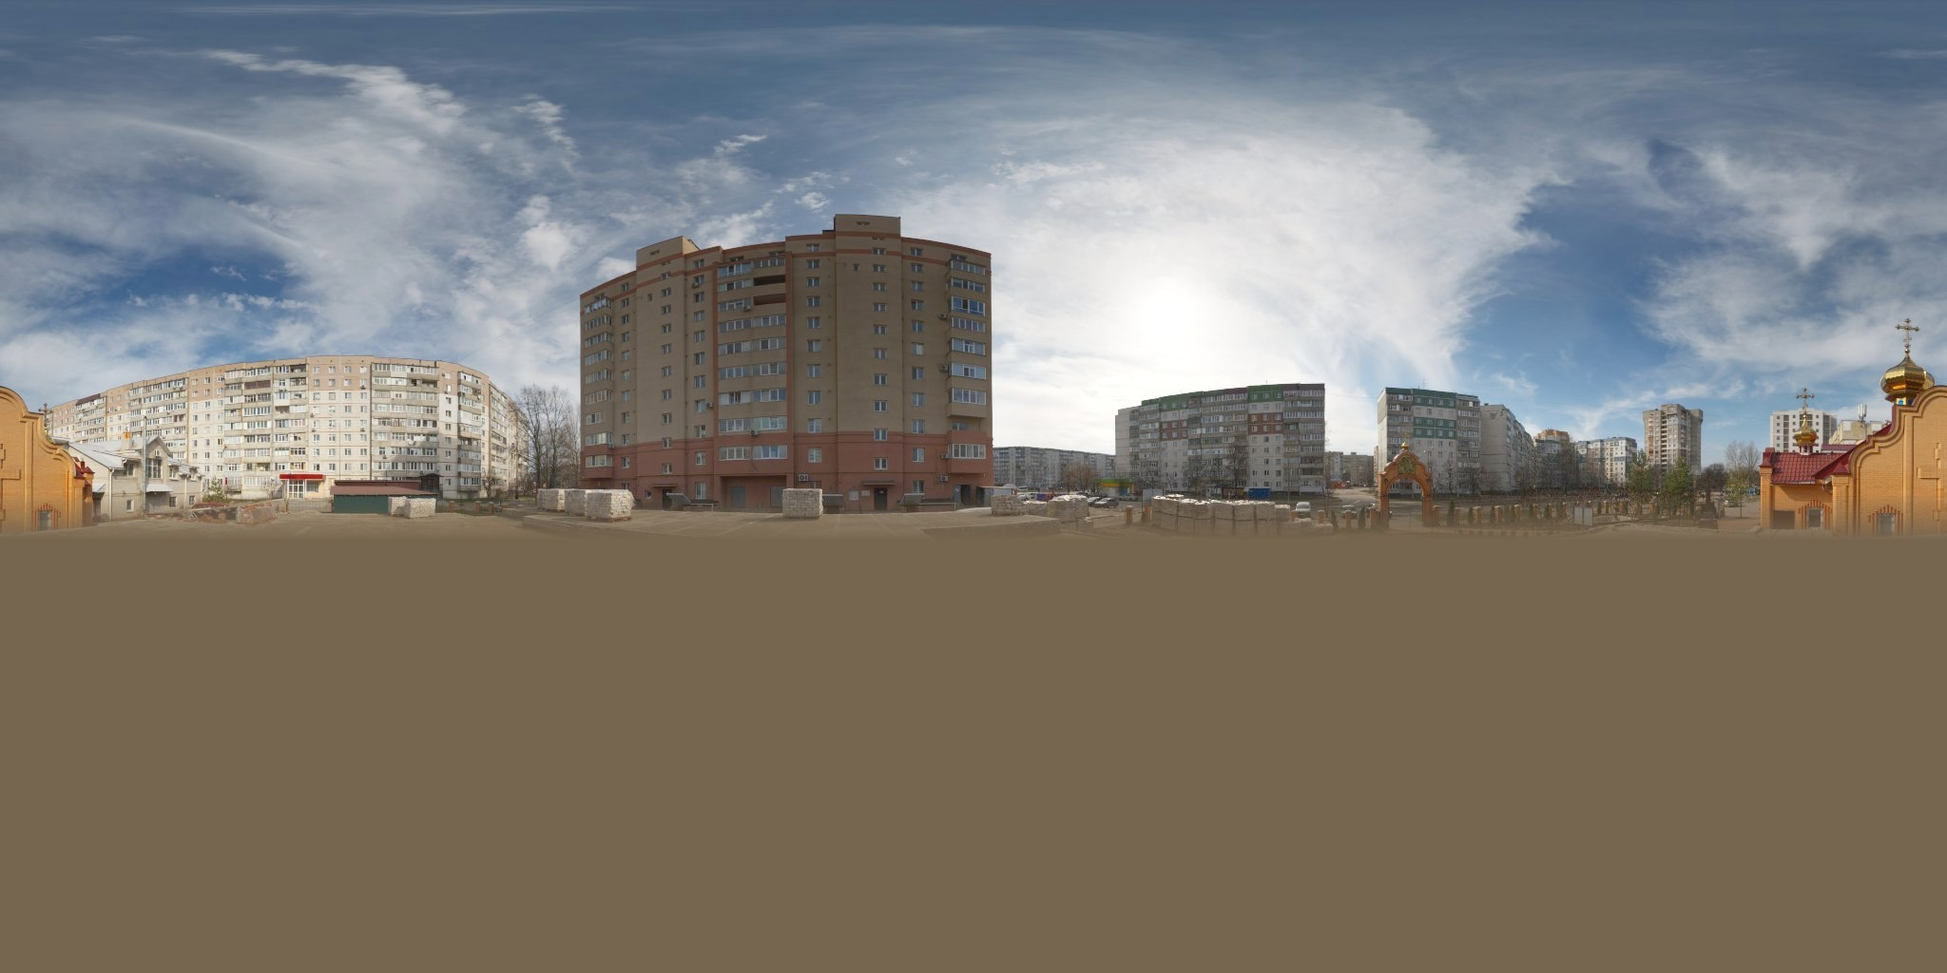
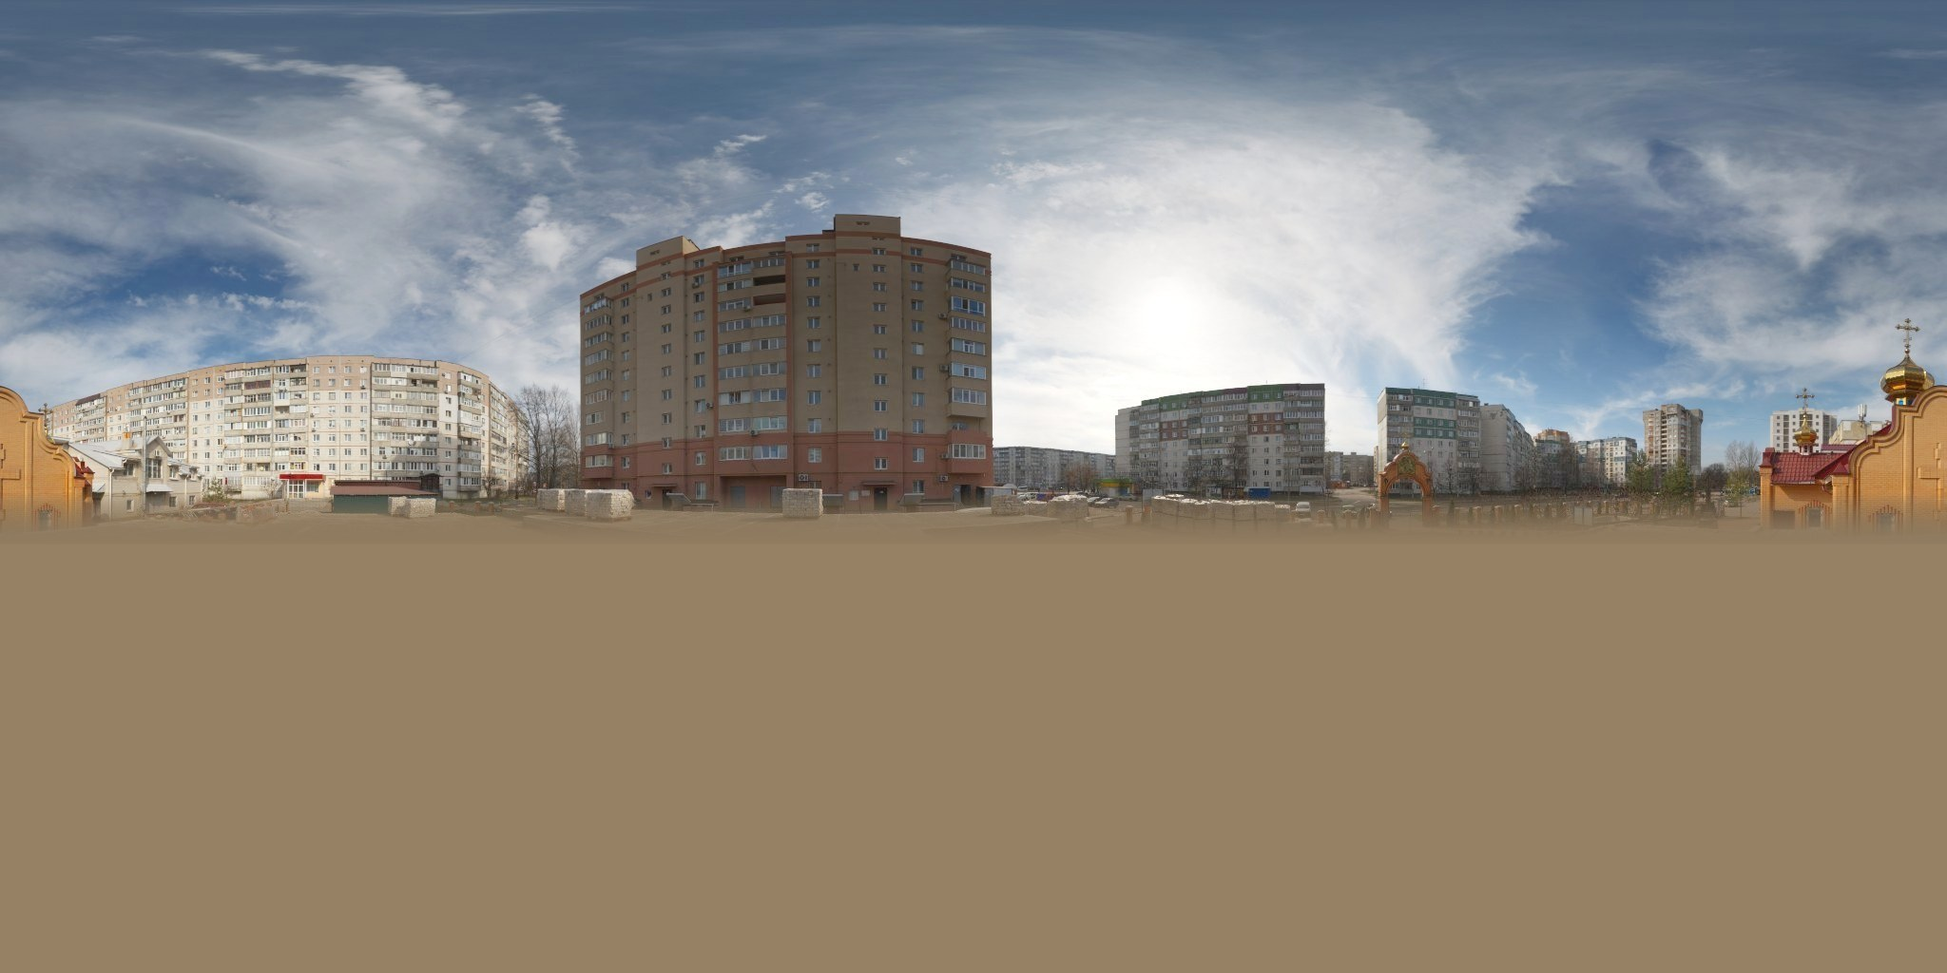
改善ループ1回目: 腕の慣性・当てた時の粉塵と揺れ・はまった時の手応え・始めのヒント・目標をすぐ出す・ステージ一覧に一言・暗い場面を明るく・地面の端の暗い帯を薄く・クレーン運転席の視野 (v88)

diff --git a/game.js b/game.js
@@ -62,7 +62,7 @@ const G = window.G = {};   // 確かめ用の口
   const env = new B.HDRCubeTexture("assets/hdri/construction_yard_2k.hdr", scene, LITE ? 64 : 256, false, true, false, !LITE);   // 軽い版は読み込み時の下ごしらえ（float の描画先を何枚も作る）を省く
   env.rotationY = ENV_ROT;
   scene.environmentTexture = env; scene.environmentIntensity = 1.0;
-  const dome = new B.PhotoDome("bg", AS + "hdri/construction_yard_bg3.jpg", { resolution: 64, size: 1600 }, scene);
+  const dome = new B.PhotoDome("bg", AS + "hdri/construction_yard_bg3.jpg?v=2", { resolution: 64, size: 1600 }, scene);
   dome.mesh.rotation.y = ENV_ROT + Number(Q.get("domerot") || 0); dome.material.fogEnabled = false; dome._bg = "construction_yard"; dome._rot0 = dome.mesh.rotation.y;
   // 太陽: 写真の中の太陽の位置（高さ 34°）に合わせる。方位は写真の向きに合わせて DOME と同じだけ回す
   const SUN_EL = 33.8 * Math.PI / 180, SUN_AZ = Number(Q.get("sunaz") || 3.4);   // 写真の太陽の方位（カメラを向けて合わせた。回す前は 5.75）
@@ -134,7 +134,7 @@ const G = window.G = {};   // 確かめ用の口
     const pos = [], uv = [], col = [], idx = [], N = 96;
     for (let i = 0; i <= N; i++) {
       const a = i / N * Math.PI * 2, c = Math.cos(a), sn = Math.sin(a);
-      for (const [r, al] of [[GR - 0.01, 1], [GR + 25, 0.85], [GR2, 0]]) {
+      for (const [r, al] of [[GR - 0.01, 1], [GR + 15, 0.6], [125, 0]]) {   // 外ほど暗く見えて帯になっていたので早めに消す（10-24 改善ループ 軸4）
         pos.push(c * r, 0.002, sn * r); uv.push((c * r) / (GR * 2) + 0.5, (sn * r) / (GR * 2) + 0.5); col.push(1, 1, 1, al);
       }
     }
@@ -1105,9 +1105,9 @@ const G = window.G = {};   // 確かめ用の口
   }
   function broke(n, p, big) {      // 格子が n 個こわれた（p はその辺り）
     combo += n; comboT = 0.5; comboP = p; score += n;
-    if (big || playT - lastDustT > 0.15) { lastDustT = playT; dust(p, (big ? 30 : 6) + n * (big ? 8 : 3)); }   // 押し当てている間に毎コマ出すと画面が粉塵で埋まった
+    if (big || playT - lastDustT > 0.15) { lastDustT = playT; dust(p, (big ? 34 : 10) + n * (big ? 8 : 4)); }   // 押し当てている間に毎コマ出すと画面が粉塵で埋まった
     crash(Math.min(1, (big ? 0.35 : 0.05) + n * (big ? 0.06 : 0.03)));
-    shake(Math.min(0.6, (big ? 0.25 : 0.04) + n * (big ? 0.03 : 0.012)));
+    shake(Math.min(0.6, (big ? 0.28 : 0.08) + n * (big ? 0.03 : 0.012)));
   }
   function updateCombo(dt) {
     if (comboT <= 0) return;
@@ -1349,6 +1349,7 @@ const G = window.G = {};   // 確かめ用の口
         const now = (kind === "b") === (mode === "build") && i === (kind === "b" ? bstage : stage) && canClose;
         const b = document.createElement("button"); b.className = "btn stBtn" + (now ? " now" : "");
         b.textContent = `${i + 1}. ${st.name}　${st.free ? "♾" : stars(got[i] || 0)}`;
+        const sub = document.createElement("small"); sub.textContent = kind === "d" ? (st.free ? "じゆうに こわす" : `ダンプ ${st.trucks}だい`) : (st.sites ? "3か所に たてる" : st.unit ? "わくを つむ・かぜ つよい" : `${st.floors}かいだて`); b.appendChild(sub);
         b.onclick = () => { wakeAudio(); goStage(kind, i); };
         col.appendChild(b);
       });
@@ -1357,7 +1358,8 @@ const G = window.G = {};   // 確かめ用の口
     el.style.display = ""; $("goal").style.display = "none";
   }
   $("bStage").onclick = () => { wakeAudio(); if ($("stages").style.display === "none") showStages("ステージを えらぼう", true); else $("stages").style.display = "none"; };
-  function startStage(i) { $("goal").style.display = ""; stage = i; FLOORS = STAGES[i].floors; reset(); applyLook(STAGES[i].look ?? i); chime([0, 7]); popup("ステージ " + (i + 1) + " スタート！", "mile"); }
+  function startHint() { const h = $("hint"); h.textContent = "左レバーで うでを のばして、バケットを ビルに ぶつけよう"; h.style.display = ""; clearTimeout(startHint.t); startHint.t = setTimeout(() => { if (mode !== "build") h.style.display = "none"; }, 7000); }
+  function startStage(i) { $("goal").style.display = ""; stage = i; FLOORS = STAGES[i].floors; reset(); applyLook(STAGES[i].look ?? i); chime([0, 7]); popup("ステージ " + (i + 1) + " スタート！", "mile"); startHint(); }
   // さら地の結果
   function showResult() {
     const st = STAGES[stage], n = playT <= st.star3 ? 3 : playT <= st.star2 ? 2 : 1;
@@ -1408,6 +1410,7 @@ const G = window.G = {};   // 確かめ用の口
     return n;
   }
 
+  const lv = { sw: 0, st: 0, bo: 0, bu: 0 };   // 腕のレバーのなめらかにした値
   function reset() {
     clearDebris(); buildBuilding();
     for (const m of truck.load) m.dispose(); truck.load.length = 0; truck.amount = 0; truck.trips = 0; truck.sent = 0; finishAt = -1; truck.state = "wait"; truck.z = TRUCK_HOME.z;
@@ -1854,7 +1857,7 @@ const G = window.G = {};   // 確かめ用の口
         B.Vector3.LerpToRef(s2.from, s2.to, e, s2.m.position); B.Quaternion.SlerpToRef(s2.q, s2.h.p.q || B.Quaternion.Identity(), e, s2.m.rotationQuaternion);   // 屋根は傾けて はめる
         if (far) drawSlings(null); else drawSlings(s2.h, hb);
         cr.tgt.x += (s2.to.x - cr.tgt.x) * Math.min(1, dt * 6); cr.tgt.z += (s2.to.z - cr.tgt.z) * Math.min(1, dt * 6);   // はまる間はフックも枠の真上へ（荷だけ横へ動くとワイヤーが横に伸びた 評価 k5）
-        if (s2.t >= 1) { s2.slack = 0; clang(s2.good ? 1 : 0.7); shake(s2.m === bd.placed[0] ? 0.1 : 0.15); dust(s2.to, s2.good ? 14 : 8); }
+        if (s2.t >= 1) { s2.slack = 0; clang(s2.good ? 1 : 0.7); shake(s2.m === bd.placed[0] ? 0.16 : 0.22); dust(s2.to, s2.good ? 26 : 14); }
       } else {
         s2.slack += dt; s2.drop = Math.min(0.4, s2.slack * 1.2); s2.hx = s2.hx || hb.clone();
         if (Math.hypot(hb.x - s2.hx.x, hb.z - s2.hx.z) > 0.5 || Math.hypot(hb.x - s2.to.x, hb.z - s2.to.z) > 0.8) s2.slack = 0.55;   // フックが横へ動き出したら、すぐ外す（ワイヤーが横へ引き伸ばされて見えた 評価 k4）
@@ -1961,7 +1964,7 @@ const G = window.G = {};   // 確かめ用の口
     cr.pos.set(0, 0, 3); cr.heading = 0; cr.sway.set(0, 0); cr.swayV.set(0, 0); tipInit = false;
     cr.tgt.set(YARD.x, 6, YARD.z);                           // 最初は置き場の真上。あとは「下げる」だけで吊れる
     const s = solveCrane(cr.tgt, 0); cr.swing = s.swing; cr.luff = s.luff; cr.ext = s.ext; cr.wire = s.wire;
-    fp.parent = crSeat; fp.fov = 1.25; look.yaw = 0; look.pitch = -0.1; lookIdle = 9; tp.radius = BS.floors > 4 ? 44 : BS.sites ? 38 : 30; tp.beta = 1.05; tp.alpha = -Math.PI / 2 - 0.35;
+    fp.parent = crSeat; fp.fov = 1.32; look.yaw = 0; look.pitch = -0.1; lookIdle = 9; tp.radius = BS.floors > 4 ? 44 : BS.sites ? 38 : 30; tp.beta = 1.05; tp.alpha = -Math.PI / 2 - 0.35;
     if (view === "fp") $("bView").onclick();   // 建築は外からが最初（運転席からだとブームと柱でフックが隠れた 10-12 評価 b0）
     $("done").style.display = "none"; $("pedals").style.display = "none"; $("hint").style.display = "";   // クレーンは止めたまま届くのでペダルは隠す
     craneLabels();
@@ -2067,7 +2070,7 @@ const G = window.G = {};   // 確かめ用の口
     ride = v; wkRoot.setEnabled(false); for (const st of Object.values(sticks)) releaseStick(st);
     if (v === "cr") {
       if (mode !== "build") { enterBuild(); return; }   // さら地の後に初めて乗ったら建築が始まる
-      fp.parent = crSeat; fp.fov = 1.25; tp.radius = 30; tp.beta = 1.05; tp.alpha = -Math.PI / 2 - 0.35; craneLabels();
+      fp.parent = crSeat; fp.fov = 1.32; tp.radius = 30; tp.beta = 1.05; tp.alpha = -Math.PI / 2 - 0.35; craneLabels();
     } else {
       fp.parent = seat; fp.fov = 1.15; tp.radius = 18; tp.beta = 1.1; tp.alpha = -ex.heading - Math.PI / 2;
       $("pedals").style.display = ""; setLabels();
@@ -2106,7 +2109,10 @@ const G = window.G = {};   // 確かめ用の口
     if (craneHere) updateBuild(dt);   // さら地の後: 来たクレーン車は止まったまま（乗るまでレバーは効かない）
     if (exSlide) { exSlide.t = Math.min(1, exSlide.t + dt / 1.5); B.Vector3.LerpToRef(exSlide.from, exSlide.to, 1 - Math.pow(1 - exSlide.t, 3), ex.pos); if (exSlide.t >= 1) exSlide = null; }
     const onEx = ride === "ex", K = onEx ? kv : () => 0, L = onEx ? sticks.L : NO_STICK, R = onEx ? sticks.R : NO_STICK;   // 乗っていない時はレバーが効かない
-    const sw = L.x + K("KeyD", "KeyA"), st = -L.y + K("KeyS", "KeyW"), bo = -R.y + K("KeyK", "KeyI"), bu = -R.x + K("KeyJ", "KeyL");
+    const sw0 = L.x + K("KeyD", "KeyA"), st0 = -L.y + K("KeyS", "KeyW"), bo0 = -R.y + K("KeyK", "KeyI"), bu0 = -R.x + K("KeyJ", "KeyL");
+    // 腕の油圧らしさ: レバーの値へじわっと寄せる（動き出し dt*6・止める時は dt*10 で速め）（10-24 改善ループ 軸6）
+    const ease = (k, v) => { const c = lv[k], a = Math.abs(v) < Math.abs(c) ? 10 : 6; return (lv[k] = c + (v - c) * Math.min(1, dt * a)); };
+    const sw = ease("sw", sw0), st = ease("st", st0), bo = ease("bo", bo0), bu = ease("bu", bu0);
     const prev = [ex.boom, ex.stick, ex.bucket], low0 = bucketLowest();
     const pw = POW();
     ex.swing += sw * 0.85 * pw * dt;
@@ -2230,7 +2236,7 @@ const G = window.G = {};   // 確かめ用の口
   const pipe = new B.DefaultRenderingPipeline("pipe", !Q.has("nohdr") && !LITE, scene, Q.has("nopp") ? [] : [fp, tp]);
   pipe.imageProcessingEnabled = true;
   pipe.imageProcessing.toneMappingEnabled = true; pipe.imageProcessing.toneMappingType = B.ImageProcessingConfiguration.TONEMAPPING_ACES;
-  pipe.imageProcessing.exposure = 1.0; pipe.imageProcessing.contrast = 1.28;
+  pipe.imageProcessing.exposure = 1.0; pipe.imageProcessing.contrast = 1.2;   // 1.28 では街の影が黒く潰れた（10-24 改善ループ 軸4）
   pipe.imageProcessing.colorCurvesEnabled = true; pipe.imageProcessing.colorCurves = new B.ColorCurves(); pipe.imageProcessing.colorCurves.globalSaturation = -14;
   scene.environmentIntensity = 0.85;
   pipe.imageProcessing.vignetteEnabled = true; pipe.imageProcessing.vignetteWeight = 1.2;
@@ -2243,15 +2249,15 @@ const G = window.G = {};   // 確かめ用の口
   //   exp: 明るさ／fog: 遠くの霞の色／fogEnd: 霞で見えなくなる距離／ground: 地面に掛ける色／shade: 影の薄さ（0=真っ黒）
   const LOOKS = [
     { name: "はれ", bg: "construction_yard", el: 33.8, sun: [1, 0.96, 0.9], si: 2.1, hue: 0, dens: 0, sat: -14, exp: 1.0, fog: [0.6, 0.58, 0.55], fogEnd: 380, ground: [1, 1, 1], shade: 0.12 },
-    { name: "ゆうがた", bg: "sunset_jhbcentral", bgRot: Math.PI, el: 16, sun: [1, 0.62, 0.36], si: 1.9, hue: 28, dens: 45, sat: -2, exp: 0.95, fog: [0.78, 0.55, 0.38], fogEnd: 320, ground: [1.1, 0.95, 0.8], shade: 0.2 },
-    { name: "くもり", bg: "potsdamer_platz", bgRot: 0, el: 55, sun: [0.86, 0.9, 1], si: 0.8, hue: 215, dens: 24, sat: -42, exp: 0.93, fog: [0.56, 0.59, 0.63], fogEnd: 200, ground: [0.84, 0.88, 0.94], shade: 0.55 },
+    { name: "ゆうがた", bg: "sunset_jhbcentral", bgRot: Math.PI, el: 16, sun: [1, 0.62, 0.36], si: 1.9, hue: 28, dens: 45, sat: -2, exp: 1.0, fog: [0.78, 0.55, 0.38], fogEnd: 320, ground: [1.1, 0.95, 0.8], shade: 0.2 },
+    { name: "くもり", bg: "potsdamer_platz", bgRot: 0, el: 55, sun: [0.86, 0.9, 1], si: 0.8, hue: 215, dens: 24, sat: -42, exp: 1.0, fog: [0.56, 0.59, 0.63], fogEnd: 200, ground: [0.84, 0.88, 0.94], shade: 0.55 },
     { name: "あさ", bg: "stuttgart_suburbs", bgRot: 0, el: 24, sun: [1, 0.95, 0.8], si: 2.3, hue: 55, dens: 14, sat: 2, exp: 1.08, fog: [0.72, 0.74, 0.68], fogEnd: 380, ground: [0.78, 1.0, 0.66], shade: 0.15 }];
   const GROUND_MATS = ["groundM", "groundRingM", "gDirtM", "gMudM", "moundM"];
   function applyLook(i) {
     const L = LOOKS[i] || LOOKS[0], el = L.el * Math.PI / 180;
     // 周りぐるっとの背景写真（Poly Haven・CC0。地平線より下は地面の色で塗ってある。tools は scratchpad の make_bg.py と同じ手順 → context に記録）
     if (dome._bg !== L.bg) {   // 上下の向きは PhotoDome が最初に作る時と同じ（invertY = !_useDirectMapping。逆にすると空と地面が逆さになった）
-      dome._bg = L.bg; const old = dome.photoTexture; dome.photoTexture = new B.Texture(AS + "hdri/" + L.bg + "_bg3.jpg", scene, true, !dome._useDirectMapping); if (old && old !== dome.photoTexture) old.dispose(); }
+      dome._bg = L.bg; const old = dome.photoTexture; dome.photoTexture = new B.Texture(AS + "hdri/" + L.bg + "_bg3.jpg?v=2", scene, true, !dome._useDirectMapping); if (old && old !== dome.photoTexture) old.dispose(); }
     dome.mesh.rotation.y = dome._rot0 + (L.bgRot || 0);   // 開けた方（夕焼け空・ビル街・遠くの町）が正面に来る向き（6 通り回して撮って選んだ）
     sun.direction.set(-Math.sin(SUN_AZ) * Math.cos(el), -Math.sin(el), -Math.cos(SUN_AZ) * Math.cos(el));
     sun.position = sunC.subtract(sun.direction.scale(SUN_D));
@@ -2377,9 +2383,10 @@ const G = window.G = {};   // 確かめ用の口
     } catch (e) { console.warn("小物の読み込み失敗", e); }
   })();
 
-  reset();
+  reset(); updateGoal(0, 0);   // 始めから目標を出す（「読み込み中」が数秒残った）
   if (Q.has("build")) enterBuild();   // ?build=N でクレーンの N 面
   else if (!Q.has("stage") && !Q.has("nostage")) showStages("ステージを えらぼう", false);
+  else startHint();
   $("msg").style.display = "none";
   engine.resize();   // WebGPU は作った時点で canvas の大きさを拾わないことがある（300×150 のままになった）
   engine.runRenderLoop(() => scene.render());

diff --git a/index.html b/index.html
@@ -42,9 +42,9 @@ html,body{margin:0;height:100%;background:#1b2838;overflow:hidden;touch-action:n
 #done .btn{pointer-events:auto;margin:10px 5px 0;font-size:16px;padding:9px 14px}
 #done .rT{font-size:24px} #rStars{font-size:34px;color:#d9480f;letter-spacing:6px;text-shadow:0 2px 0 #fff8} #rInfo{font-size:14px;white-space:pre-line;margin-top:4px}
 #goal{position:absolute;left:calc(10px + env(safe-area-inset-left));top:calc(8px + env(safe-area-inset-top));width:min(28vw,220px);color:#fff;background:#0007;border-radius:8px;padding:4px 7px;pointer-events:none;font-weight:bold}
-#gStage{font-size:9px;opacity:.8} #gText{font-size:11px;line-height:1.25;margin:1px 0 3px} #gScore{position:absolute;right:7px;top:3px;font-size:10px;color:#ffd23f}
+#gStage{font-size:10px;opacity:.8} #gText{font-size:12px;line-height:1.25;margin:1px 0 3px} #gScore{position:absolute;right:7px;top:3px;font-size:10px;color:#ffd23f}
 .gbar{position:relative;height:11px;background:#fff3;border-radius:6px;overflow:hidden;margin-top:2px} .gbar i{position:absolute;left:0;top:0;bottom:0;background:linear-gradient(#ffcf3f,#f08c00);transition:width .3s}
-.gbar.tr i{background:linear-gradient(#8fe08f,#2f9e44)} .gbar span{position:relative;font-size:9px;padding-left:5px;line-height:11px;text-shadow:0 1px 2px #000}
+.gbar.tr i{background:linear-gradient(#8fe08f,#2f9e44)} .gbar span{position:relative;font-size:10px;padding-left:5px;line-height:11px;text-shadow:0 1px 2px #000}
 #pops{position:absolute;left:50%;top:30%;width:0;height:0;pointer-events:none}
 .pop{position:absolute;left:0;top:0;transform:translate(-50%,0);white-space:nowrap;color:#fff;font-weight:900;font-size:21px;text-shadow:0 3px 0 #000a,0 0 8px #000;animation:popup 1.3s ease-out forwards}
 .pop.mid{font-size:27px;color:#ffd23f} .pop.big{font-size:34px;color:#ff922b} .pop.mile{font-size:25px;color:#8ce99a;top:45px} .pop.load{font-size:20px;color:#8ce99a;top:82px}
@@ -55,7 +55,7 @@ html,body{margin:0;height:100%;background:#1b2838;overflow:hidden;touch-action:n
 .stCol.d .stBtn{background:#fff3df} .stCol.b .stBtn{background:#e6f4ff}
 .stHead{font-size:15px;font-weight:900;color:#fff;text-align:center;text-shadow:0 1px 2px #0008;padding:2px}
 .stBtn.now{outline:3px solid #223} .stClose{font-size:13px;align-self:center}
-.stTitle{font-size:17px;font-weight:900;color:#fff;text-align:center} .stBtn{font-size:13px;text-align:left;padding:6px 10px;box-shadow:0 2px 0 #0004} .stBtn.locked{opacity:.55}
+.stTitle{font-size:17px;font-weight:900;color:#fff;text-align:center} .stBtn{font-size:13px;text-align:left;padding:6px 10px;box-shadow:0 2px 0 #0004} .stBtn small{display:block;font-size:10px;font-weight:bold;opacity:.65;margin-top:1px} .stBtn.locked{opacity:.55}
 .stUp{font-size:17px;color:#223;white-space:pre-line;font-weight:bold}
 #toast{position:absolute;left:50%;top:22%;transform:translate(-50%,-50%);color:#fff;font-size:19px;font-weight:bold;background:#0009;padding:7px 16px;border-radius:14px;pointer-events:none;white-space:nowrap}
 #hint{position:absolute;left:50%;transform:translateX(-50%);bottom:calc(24px + env(safe-area-inset-bottom));max-width:40vw;text-align:center;color:#fff;font-size:15px;font-weight:bold;background:#0009;padding:7px 12px;border-radius:14px;pointer-events:none}
@@ -113,7 +113,7 @@ html,body{margin:0;height:100%;background:#1b2838;overflow:hidden;touch-action:n
     await Promise.all([worker(), worker(), worker(), worker()]);
   } catch (e) { console.warn("先読みできませんでした", e); }
   msg.textContent = "準備中…";
-  for (const src of ["vendor/babylon.js", "vendor/HavokPhysics_umd.js", "vendor/babylonjs.loaders.min.js", "game.js?v=85"]) {
+  for (const src of ["vendor/babylon.js", "vendor/HavokPhysics_umd.js", "vendor/babylonjs.loaders.min.js", "game.js?v=88"]) {
     await new Promise((ok, ng) => { const sc = document.createElement("script"); sc.src = src; sc.onload = ok; sc.onerror = ng; document.body.appendChild(sc); });
   }
 })();

diff --git a/tools/eval_capture.js b/tools/eval_capture.js
@@ -1,0 +1,48 @@
+// 改善ループ用の撮影と計測（評価役に渡す材料）。ページで読み込むと CAP.run(場面, 回) が使える
+// 使い方: ?stage=1 などで開く → script を読み込む → await CAP.run("s1", "r0")。結果は CAP.out、絵は 127.0.0.1:8821 の受け口へ
+(() => {
+  const B = BABYLON, G = window.G, V = (x, y, z) => new B.Vector3(x, y, z);
+  const CAP = window.CAP = { out: {} };
+  const loadBot = () => new Promise(r => { if (window.BOT) return r(); const s = document.createElement("script"); s.src = "tools/bot.js?" + Date.now(); s.onload = r; document.head.appendChild(s); });
+  const cam = (t, r, beta, alpha) => { G.camAt = () => t; G.tp.radius = r; G.tp.beta = beta; G.tp.alpha = alpha; };
+  const toTp = () => { if (document.getElementById("bView").textContent !== "運転席") document.getElementById("bView").click(); };
+  const toFp = () => { if (document.getElementById("bView").textContent === "運転席") document.getElementById("bView").click(); };
+  CAP.run = async (sc, round) => {
+    G.testMode(); await loadBot(); BOT.scale = 1; G.engine.setHardwareScalingLevel(1);
+    const snap = n => BOT.snap(`${round}_${sc}_${n}.jpg`), o = CAP.out[sc] = { t0: BOT.t };
+    const t = performance.now(); await BOT.step(10); o.msPerFrame = +((performance.now() - t) / 10).toFixed(1);
+    if (sc === "s1") {          // 1 面: 運転席から → 2 分半こわして運ぶ → 外から
+      toFp(); await BOT.step(5); await snap("a_cab_start");
+      await BOT.playStage(150);
+      o.log = BOT.log.map(l => `${l.t} ${l.what} 残${l.cells} 破片${l.debris} 積${l.load}`); o.pops = BOT.pops.map(p => `${p.t} ${p.text}`); o.stats = G.stats;
+      toFp(); await BOT.step(5); await snap("b_cab_mid");
+      toTp(); G.camAt = null; await BOT.step(5); await snap("c_tp_mid");
+      cam(V(0, 2, 12), 26, 1.05, -Math.PI / 2 - 0.7); await BOT.step(3); await snap("d_overview"); G.camAt = null;
+    }
+    if (sc === "s5") {          // 30 階: 遠景 → 1 階を削る → 沈む途中 → 後
+      toTp(); cam(V(0, 30, 18), 100, 1.38, -Math.PI / 2 - 0.5); await BOT.step(20); await snap("a_tower");
+      toFp(); G.camAt = null; await BOT.step(5); await snap("b_cab");
+      const b = G.blds[0];
+      for (let x = -6; x <= 6; x += 0.5) for (let y = 0.25; y < 2.6; y += 0.5) for (const z of [14.25, 21.75]) { if (b.baseN < b.base0 * 0.44) break; G.carveAt(V(x, y, z), 0.8); }
+      for (let i = 0; i < 40 && !G.sinks.length; i++) await BOT.step(5);
+      toTp(); cam(V(0, 25, 18), 95, 1.38, -Math.PI / 2 - 0.4); await BOT.step(150); await snap("c_sinking");
+      while (G.sinks.length) await BOT.step(30);
+      await BOT.step(90); cam(V(0, 2, 16), 34, 1.12, -Math.PI / 2 - 0.3); await BOT.step(3); await snap("d_after"); G.camAt = null;
+      o.debris = G.debris.length; o.sinkSec = null;
+    }
+    if (sc === "s6") {          // まち: 上から全体 → 運転席
+      toTp(); cam(V(0, 0, 20), 110, 0.95, -Math.PI / 2 - 0.3); await BOT.step(10); await snap("a_town");
+      cam(V(-4, 4, 14), 30, 1.2, -Math.PI / 2 - 0.2); await BOT.step(3); await snap("b_street");
+      toFp(); G.camAt = null; await BOT.step(5); await snap("c_cab");
+      o.cells = G.bld.cells.size;
+    }
+    if (sc === "b1") {          // クレーン 1 面: 最初 → 4 個置く → 外から
+      toTp(); G.camAt = null; await BOT.step(5); await snap("a_start");
+      const t0 = BOT.t; const per = [];
+      for (let i = 0; i < 4; i++) { const a = BOT.t; await BOT.placeOne(); per.push(+(BOT.t - a).toFixed(1)); if (i === 1) await snap("b_hanging_or_after"); }
+      o.secPerPiece = per; o.log = BOT.log.map(l => `${l.t} ${l.what}`); o.pops = BOT.pops.map(p => `${p.t} ${p.text}`);
+      await snap("c_after4"); toFp(); await BOT.step(5); await snap("d_cab"); toTp();
+    }
+    return o;
+  };
+})();
